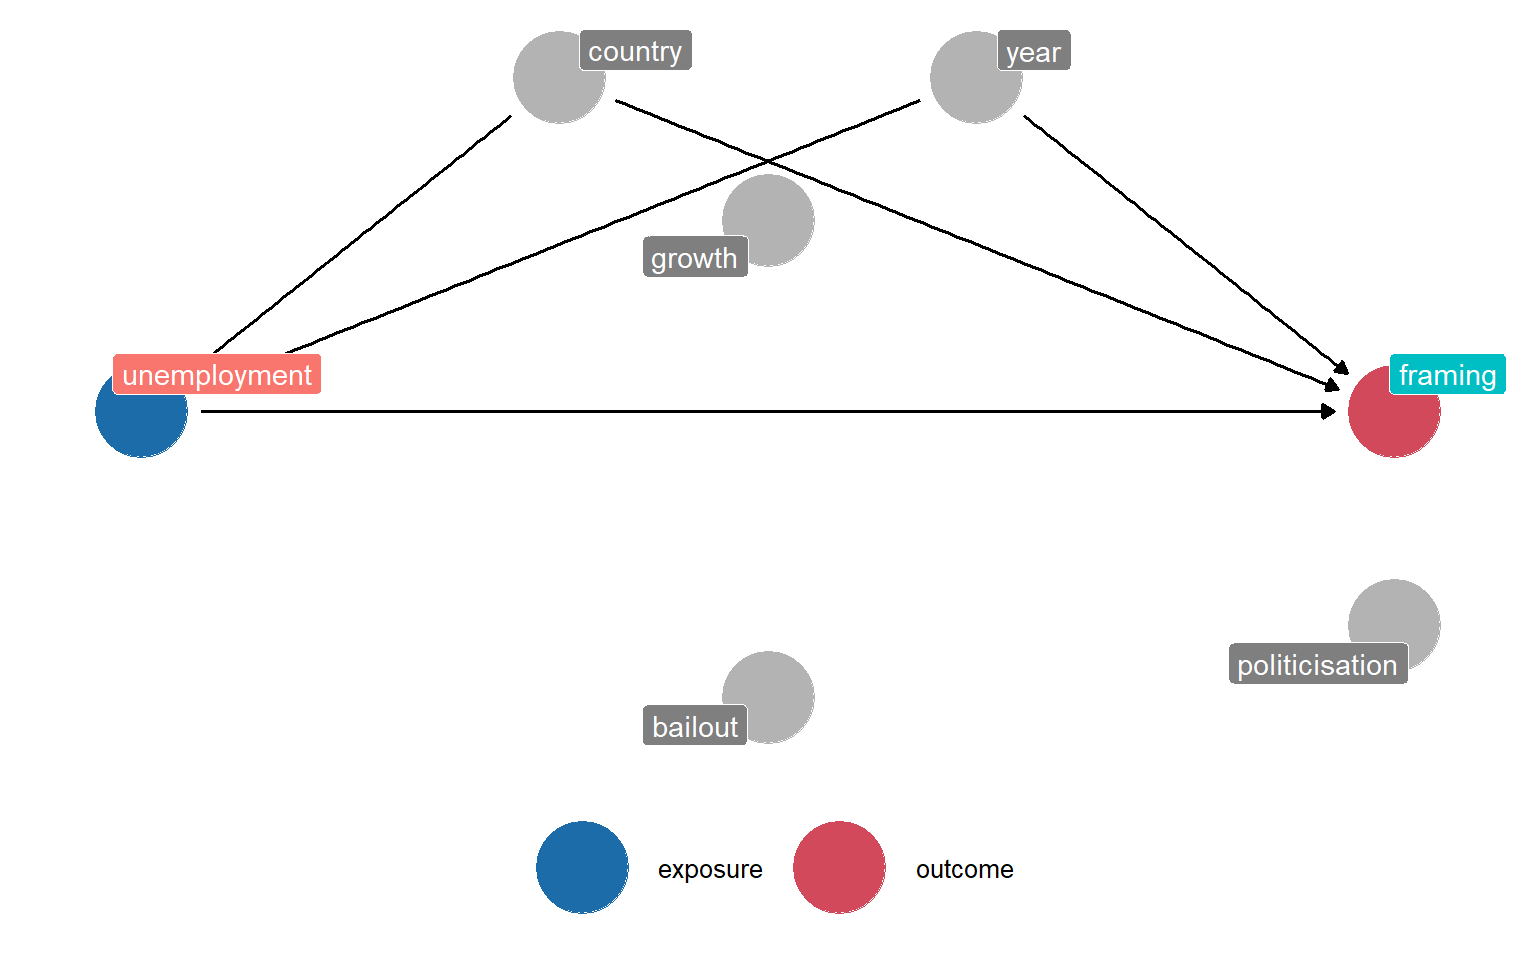
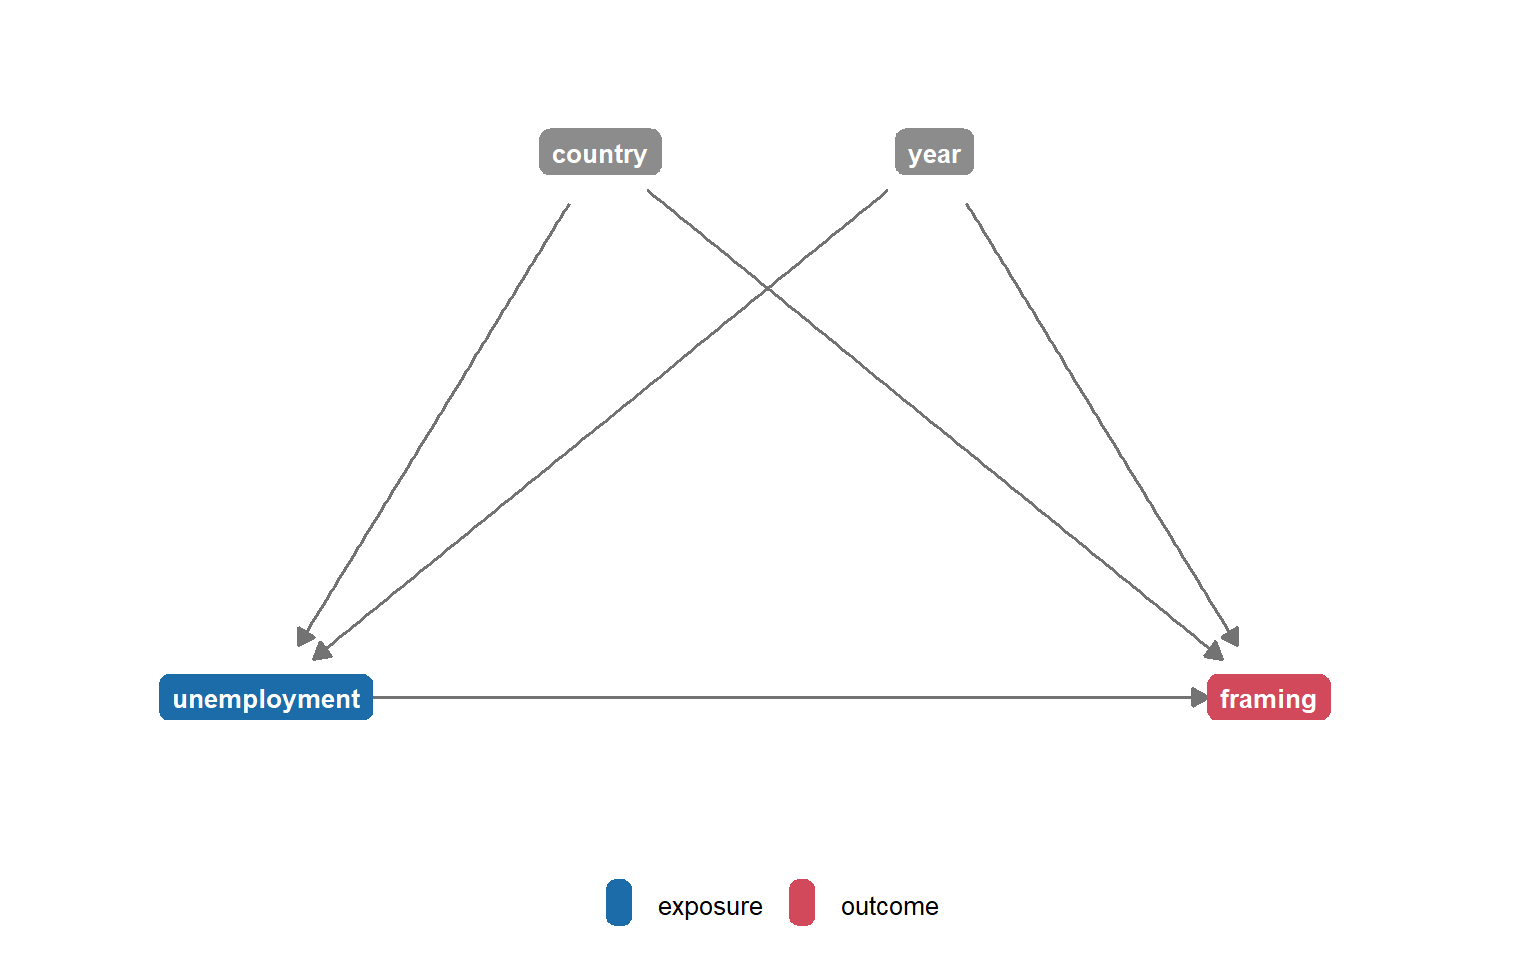
Specify the DAG with dagify() and R formulas
The starter graph is one dagify() call holding the live edges and the arguable
ones together, each candidate arrow commented out with its substantive
justification on the line above. That mechanic is the point of the change: an
edge is an R formula, so a leading # takes it out and the call still parses.
The old file could not do this - it built the graph from dagitty's quoted
mini-language, which accepts no comments inside the string, and taught
edge-adding through sub() surgery on that string.

adjustmentSets() returns { country, year } for the committed graph and
{ country, growth, year } once the growth pair is uncommented, both verified
against the specification this replaces.

plot_dag() draws nodes as labelled boxes. ggdag_status(use_labels = "name")
repelled each name away from its node, so "unemployment" sat beside its circle
rather than in it.

The data codebook is back in sync with the site repository's copy.

diff --git a/data/EUframes_cy_codebook.md b/data/EUframes_cy_codebook.md
@@ -11,18 +11,18 @@ The four framing scales follow Teney (2016: 623): for each respondent, the numbe
 Dimension item assignment (questionnaire item → dimension):
 
 | Dimension | Items |
-|---|---|
+|------------------------------------|------------------------------------|
 | Cosmopolitan (positive, non-materialist) | Peace; Democracy; Freedom to travel, study and work anywhere in the EU; Cultural diversity; Stronger say in the world |
 | Utilitarian (positive, materialist) | Economic prosperity; Social protection |
 | Communitarian (negative, non-materialist) | Unemployment; Loss of cultural identity; More crime; Not enough control at external borders |
 | Libertarian (negative, materialist) | Bureaucracy; Waste of money |
 
-**Provenance note.** This panel was rebuilt independently from the raw GESIS files, using the sixteen-wave inventory above. The as-submitted Multi100 artifact (`rep_data.csv`) is preserved unchanged alongside it; how the two builds relate is worked through during the workshop's Block 2 exercise.
+**Provenance note.** This panel was rebuilt independently from the raw GESIS files, using the sixteen-wave inventory above. The as-submitted Multi100 artefact (`rep_data.csv`) is preserved unchanged alongside it, and how the two builds relate is worked through during the workshop's Block 2.
 
 ## Variables
 
 | Variable | Description |
-|---|---|
+|------------------------------------|------------------------------------|
 | `country` | Country name |
 | `cntry` | ISO 3166 two-letter code (DE combines East/West samples; GB combines Great Britain and Northern Ireland) |
 | `year` | Survey year (2004–2013); years with two waves pool both |
@@ -39,4 +39,8 @@ Dimension item assignment (questionnaire item → dimension):
 
 ## Licence
 
-Derived aggregate data: CC BY 4.0. Underlying microdata: GESIS Eurobarometer terms apply. Macro indicators: World Bank Open Data (CC BY 4.0).
+Three different regimes apply to the three layers of this file.
+
+- **Derived aggregate data** (this file): CC BY 4.0.
+- **Underlying microdata**: GESIS Eurobarometer terms apply, and nothing individual-level may be redistributed.
+- **Macro indicators**: World Bank Open Data (CC BY 4.0).

diff --git a/README.md b/README.md
@@ -40,7 +40,7 @@ This workspace is a plain folder – no accounts, no version control, nothing to
 
 This folder is deliberately git-free for the session. There is nothing to commit, nothing to push, and no account to set up – so the whole room can get to the analysis in minutes, whatever their setup.
 
-The workspace *came from* a GitHub repository (`CodeMoreh/replication-lab`), and putting your own work under version control – and publishing the rendered report to a live URL – is the natural take-home step. The workshop site has a self-study companion module that walks it click by click: **Git and GitHub self-study** at <https://codemoreh.github.io/applied-replication/companion/git-github.html>. The `.github/` and `.devcontainer/` folders already in this workspace are what make that path work once the folder is a repository again; you can ignore them for the session.
+The workspace *came from* a GitHub repository (`CodeMoreh/replication-lab`), and putting your own work under version control – and publishing the rendered report to a live URL – is the natural take-home step. The workshop site has a self-study companion module that walks it click by click: **Git and GitHub self-study** at <https://codemoreh.github.io/applied-replication/companion/git-github.html>. The `.github/` and `.devcontainer/` folders already in this workspace are what make that path work once the folder is a repository again. You can ignore them for the session.
 
 ------------------------------------------------------------------------
 
